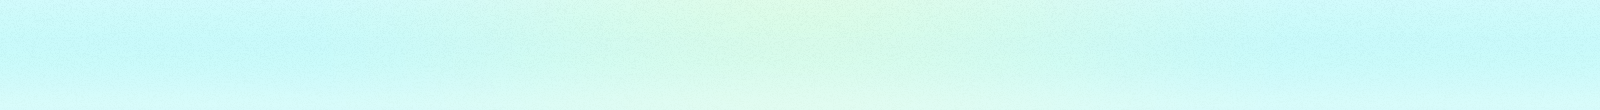
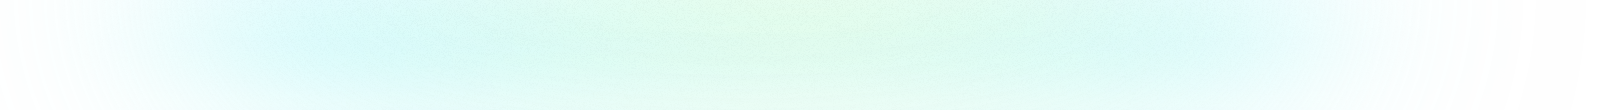
backgrounds

diff --git a/public/style/jamboschool.css b/public/style/jamboschool.css
@@ -13,7 +13,7 @@ html{
 body{
 	margin: 0;
 	padding: 0;
-	background: #7be9f0 url(../img/background.png) top center repeat-x;
+	background: #7be9f0 url(../img/background.jpg) top center repeat-x;
 	font-family: helvetica, arial, sans;
 	font-size: 14px;
 	color: #00787f;
